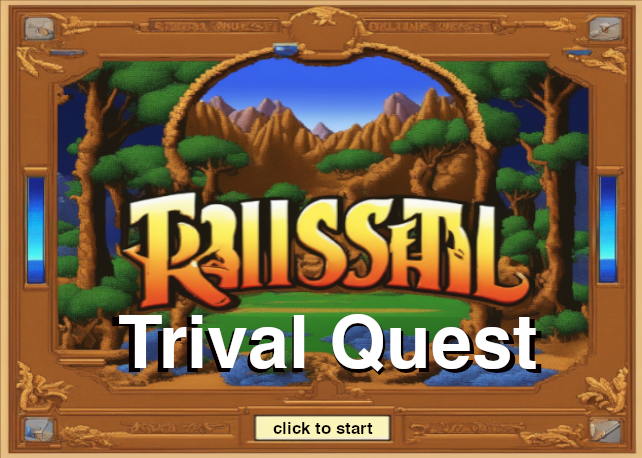
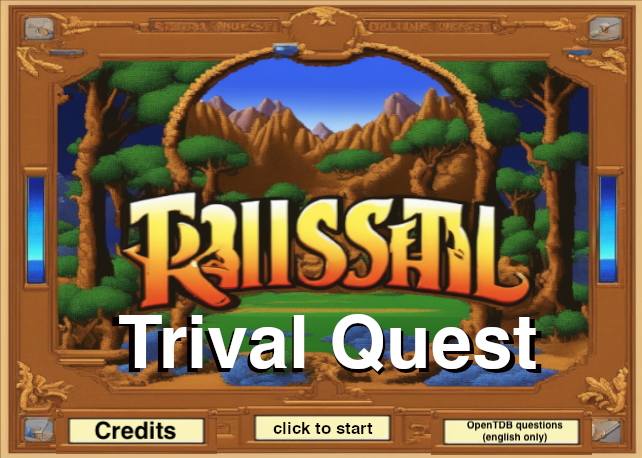
credits

Changed region(s): [[0.6542, 0.8865, 0.9346, 1.0], [0.0623, 0.8865, 0.3427, 1.0]]

diff --git a/js/main.js b/js/main.js
@@ -13,7 +13,31 @@ function initClick() {
         }
 
         if (mode == 0) {
-            doTitleClick();
+        
+            if (xPosition > 430 && xPosition < 580 && yPosition > 410 && yPosition < 450) {
+                gameplayMode = 1; // openTDB only
+                ctx.beginPath();
+                ctx.fillStyle = "Green";
+                ctx.rect(430, 410, 150, 40);
+                ctx.fill();
+            }
+            if (xPosition > 60 && xPosition < 210 && yPosition > 410 && yPosition < 450) {
+                if (gameplayMode == 2) {
+                    gameplayMode = 0;
+                    drawTitle();
+                } else {
+                    gameplayMode = 2;
+                    printCredits();
+                }
+            } else {
+                if (gameplayMode == 2) {
+                    gameplayMode = 0;
+                    drawTitle();
+                } else {
+                    doTitleClick();
+                }
+            }
+
         } else if (mode == 1 || mode == 3 || mode == 5 || mode == 6) {
             doTriviaClick();
         } else if (mode == 4) {
@@ -96,12 +120,9 @@ function initClick() {
                         console.log(ansArray[i]);
                     }
                 })
-
                 document.body.appendChild(button);
                 document.body.appendChild(button1);
                 document.body.appendChild(button2);
-                
-            
             }
         } else if (mode == 7) {
             if (e.keyCode == 13) {
@@ -128,20 +149,6 @@ function doTriviaClick() {
         nextQuestion();
     } else {
         // player selects answer
-
-        /* testing guidelines
-        for (let i=0; i<5; i++) {
-            ctx.fillStyle = "Black";
-            ctx.rect(0, qBaseNum+(i*qSpacing), 600, 5);
-            ctx.fill(); 
-        }
-
-        //mouse
-        ctx.rect(xPosition, yPosition, 10, 10);
-        ctx.fill(); 
-        */
-        
-
         if (mode == 3 || mode == 6) {
             // kingsQuestions works different
             // check if clicked in an answer
@@ -152,7 +159,6 @@ function doTriviaClick() {
             }
             if (ans > 0) {
                 if (ans == rightAns) {
-                    console.log("ans right");
                     score ++;
                     if (mode == 3) {
                         kqQuestionsCorrect ++;
@@ -160,7 +166,6 @@ function doTriviaClick() {
                         sq3QuestionsCorrect ++;
                     }
                 } else {
-                    console.log("ans wwrong");
                     score --;
                     notPerfect = 1;
                 } 
@@ -198,26 +203,7 @@ function doTriviaClick() {
                 } else {
                     score --;
                     notPerfect = 1;
-                    /*ctx.fillStyle = "Red";
-                    if (mode == 1 || mode == 5) {
-                        printText(ansArray[a], xp, qBaseNum + (qSpacing/2) + (qSpacing*a));
-                    } else {
-                        let b = a
-                        if (b > rightAns) {
-                            b --;
-                        }
-                        let s = wrapText(questionJson.incorrect_answers[b], wrapLen);
-                        printText(s, xp, qBaseNum + (qSpacing/2) + (qSpacing*a));
-                    }*/
                 }
-
-                /*ctx.fillStyle = "Yellow";
-                if (ans > 0 && (ans-1 == rightAns || rightAns == 5)) {
-                    printText(getLangStr(2),400,25); // correct
-                } else {
-                    printText(getLangStr(3),400,25); // wrong
-                }*/
-                // wait a click before next question
                 nxt ++;
 
                 if (mode5I >= mode5Arr.length) {
@@ -252,20 +238,24 @@ function doTriviaClick() {
 }
 
 function nextQuestion() {
-    let s = score % 40;
-    if (mode != 7) {
-        if ((score%10) == 0 && score != 0 && mode4I < mode4Arr.length) {
-            // every ten questions do mugshot, until all 8 have been seen.
-            // to do: add LSL2 copy protection? LB2CP?
-            mode = 4; // pq2mug
-        } else if (s >= 0 && s < 10) {
-            mode = 5; // lsl1vga
-        } else if (s > 10 && s < 20) {
-            mode = 3; // kingsQuestions
-        } else if (s > 20 && s < 30) {
-            mode = 1; // lsl3
-        } else if (s > 30 && s < 40) {
-            mode = 6; // sq3 open trivia
+    if (gameplayMode == 1) {
+        mode = 6; // ALWAYS sq3 open trivia
+    } else if (gameplayMode == 0) {
+        let s = score % 40;
+        if (mode != 7) {
+            if ((score%10) == 0 && score != 0 && mode4I < mode4Arr.length) {
+                // every ten questions do mugshot, until all 8 have been seen.
+                // to do: add LSL2 copy protection? LB2CP?
+                mode = 4; // pq2mug
+            } else if (s >= 0 && s < 10) {
+                mode = 5; // lsl1vga
+            } else if (s > 10 && s < 20) {
+                mode = 3; // kingsQuestions
+            } else if (s > 20 && s < 30) {
+                mode = 1; // lsl3
+            } else if (s > 30 && s < 40) {
+                mode = 6; // sq3 open trivia
+            }
         }
     }
 
@@ -274,7 +264,7 @@ function nextQuestion() {
         qBaseNum = 100; // horribily named question y pos
         wrapLen = 30;
         lslQuestion();
-    } else if (mode == 2 || mode == 6) {
+    } else if (mode == 6) {
         qSpacing = 50;
         qBaseNum = 80;
         wrapLen = 60;
@@ -301,10 +291,6 @@ function pqQuestion() {
     mugCel = mode4Arr[mode4I];
     if (debug) { console.log("Question number: "+mugCel);}
 }
-
-/*function pq2Bonus() {
-    drawBkgnd();
-}*/
 
 function kqQuestion() {
     ansArray = [];

diff --git a/js/util.js b/js/util.js
@@ -203,3 +203,58 @@ function getMousePos(canvas, evt) {
       y: evt.clientY - rect.top
     };
   }
+
+  function printCredits() {
+    let credStrArray = getCredLang();
+    ctx.clearRect(0, 0, c.width, c.height);
+    
+    let col = 200;
+    for (let i = 0; i < credStrArray.length; i++) {
+        ctx.fillStyle = "rgb("+(col-(5*i))+", 0, 0)";
+        printText(credStrArray[i], 8, (i * 20)+42);
+    }
+    for (let i = 0; i < credStrArray.length; i++) {
+        ctx.fillStyle = "rgb(255, 255, 255)";
+        printText(credStrArray[i], 10, (i * 20)+40);
+    }
+  }
+
+  function getCredLang() {
+    let array;
+    switch (lang) {
+        case "FR":
+            array = ["TrivialQuest v0.4.0 Juin 2024",
+                "par DoomLazer",
+                "",
+                "Les questions de sc\u00e8ne SQ3 sont extraites de OpenTDB.com appels d'API.",
+                "LSL3 Questions espagnoles du LSL3PnC de Pakolmo.",
+                "LSL1VGA questions en fran\u00e7ais traduites par Hrvg.",
+                "LSL3 versions fran\u00e7aise, espagnole, allemande et polonaise par Sierra On-Line.",
+                "Larry's Casino CyberLarry 2000 Anglais et Allemand par Sierra On-line.",
+                "Un merci sp\u00e9cial \u00e0 Threepwang.",
+                "Un merci sp\u00e9cial \u00e0 Sierra On-Line et \u00e0 ses fans.",
+                "",
+                "Les traductions sont incompl\u00e8tes.",
+                "N'h\u00e9sitez pas \u00e0 me contacter si vous \u00eates en mesure de m'aider \u00e0 les am\u00e9liorer.",
+                "",
+                "Cliquez pour revenir \u00e0 l'\u00e9cran titre."];
+            break;
+        default:
+            array = ["TrivialQuest v0.4.0 June 2024",
+                    "by DoomLazer",
+                    "",
+                    "\"SQ3 scene\" questions are pulled from OpenTDB.com API calls.",
+                    "LSL3 Spanish questions from Pakolmo's LSL3PnC.",
+                    "LSL1VGA French questions translated by Hrvg.",
+                    "LSL3 French, Spanish, German and Polish versions by Sierra On-Line.",
+                    "Larry's Casino CyberLarry 2000 English and German by Sierra On-line.",
+                    "Special thanks to Threepwang.",
+                    "Extra special thanks to Sierra On-Line and its fans.",
+                    "",
+                    "Translations are incomplete.",
+                    "Please contact me if you're able to help improve them.",
+                    "",
+                    "Click to return to title screen."];
+    }
+    return array;
+  }

diff --git a/index.html b/index.html
@@ -68,6 +68,7 @@ Your browser does not support the HTML5 canvas tag.</canvas>
 var c = document.getElementById("myCanvas");
 var ctx = c.getContext("2d");
 //ctx.scale(2, 2);
+var gameplayMode = 0;
 var mode = 0; // 0 = title, 1 = lsl3, 2 = OpenTrivia, 3 = Kings questions, 
               // 4 = pq2Mugshots, 5 = lsl1vga, 6 = sq3, 7 = pq2 Bonus caption
 var prevMode = 0;
@@ -245,6 +246,7 @@ function animate() {
                 ctx.rect(0, qBaseNum+(i*qSpacing), 600, 2);
             }
         }
+        
         //mouse
         ctx.rect(xPosition, yPosition, 5, 5);
         ctx.fill();

diff --git a/js/lang.js b/js/lang.js
@@ -40,6 +40,10 @@ function langSel(l) {
     setFont(l);
     if (mode != 0) {
         nextQuestion();
+    } else {
+        if (gameplayMode == 2) {
+            printCredits();
+        }
     }
 
     /*/ indicate langague has changed
